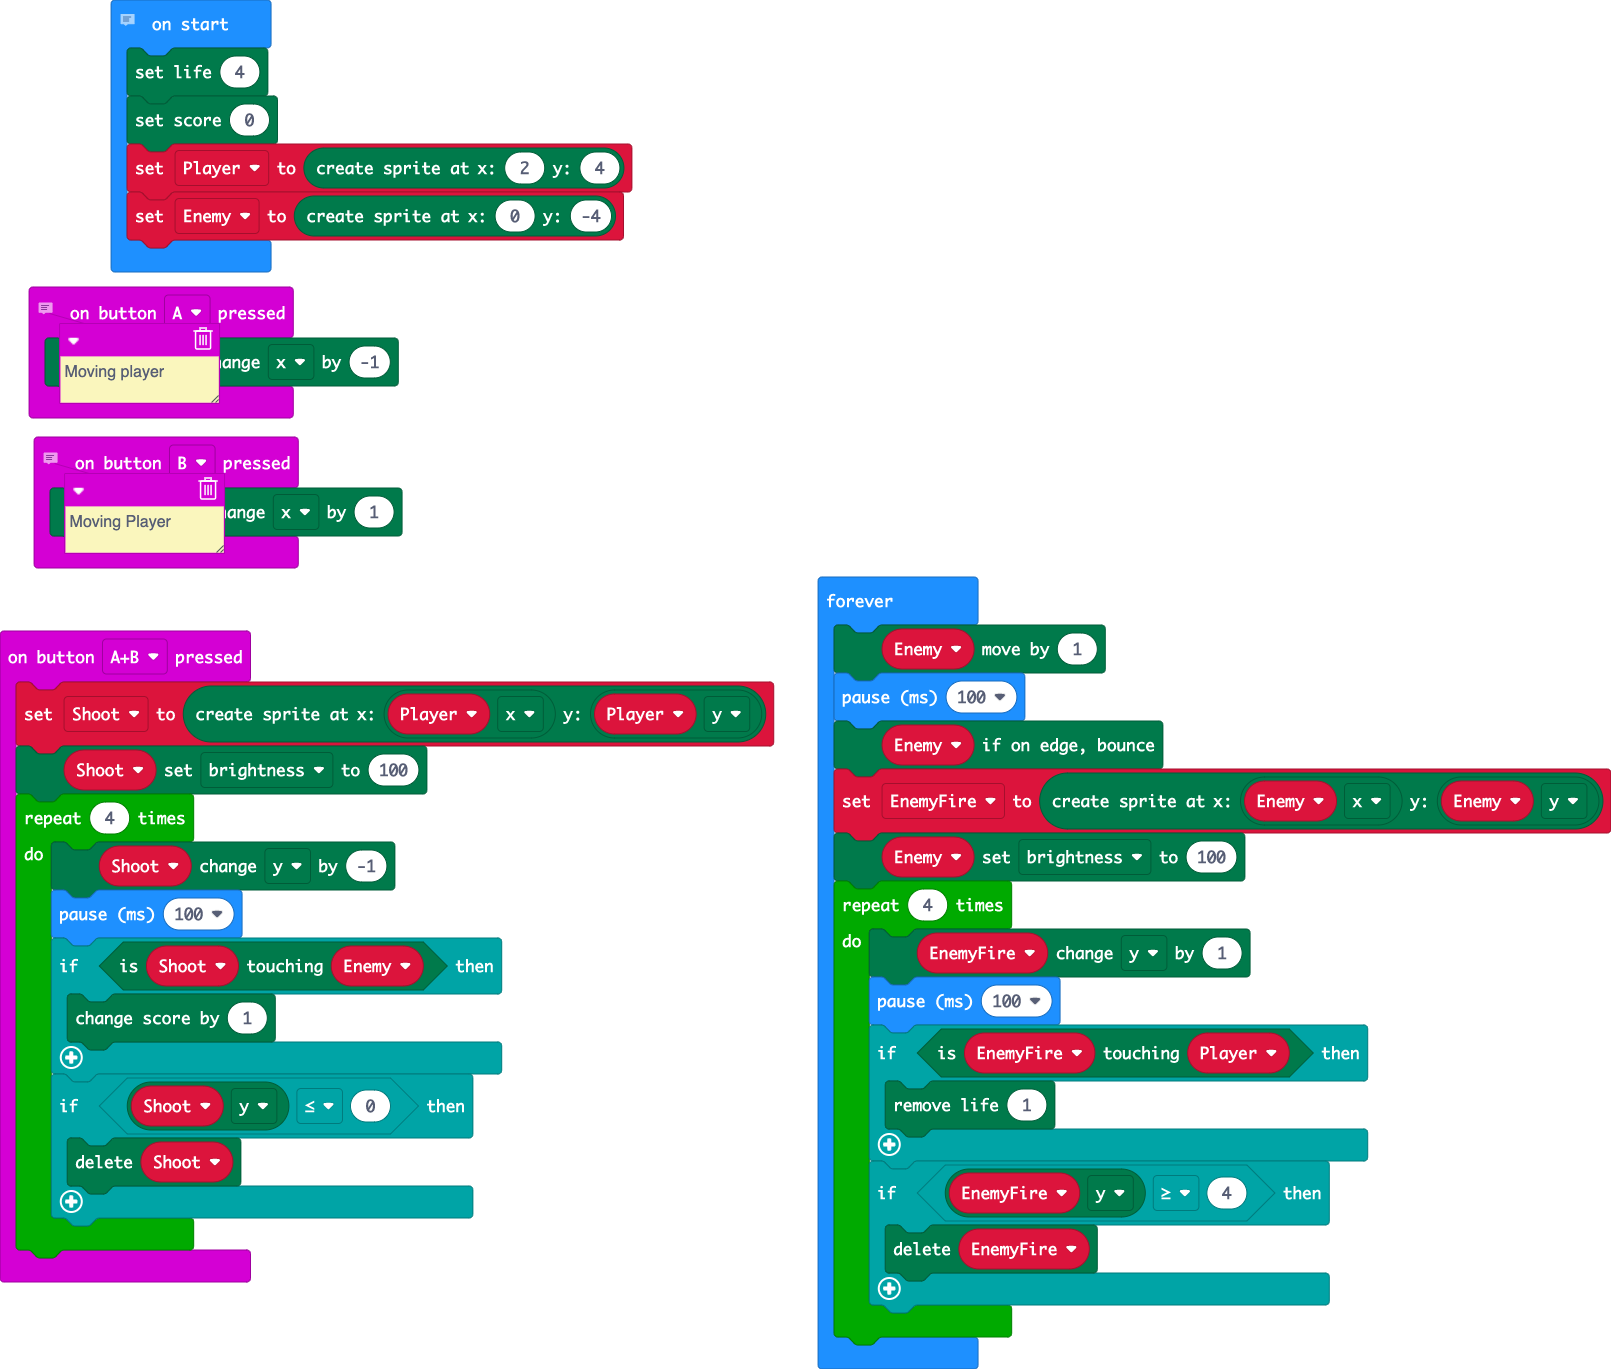
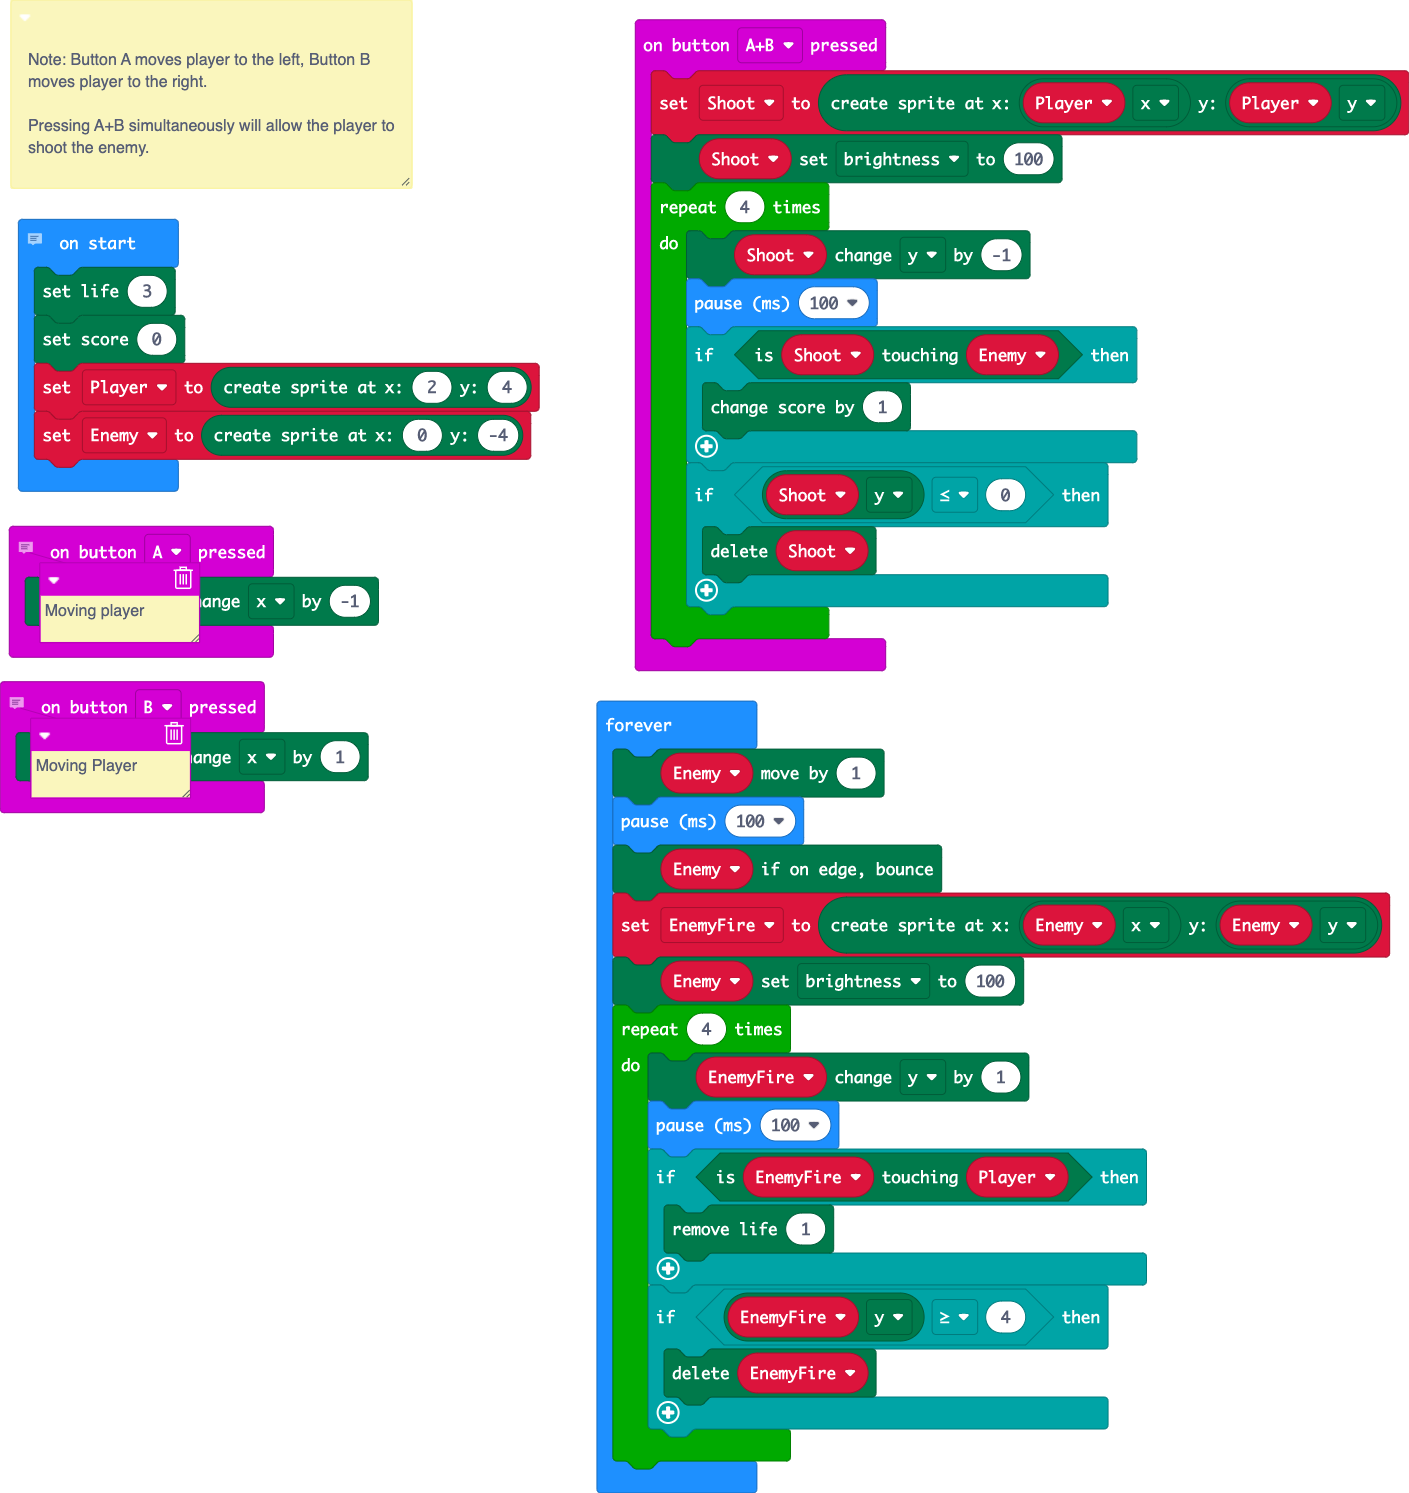
Added comments, tested.

diff --git a/main.ts b/main.ts
@@ -1,3 +1,8 @@
+/**
+ * Note: Button A moves player to the left, Button B moves player to the right.
+ * 
+ * Pressing A+B simultaneously will allow the player to shoot the enemy.
+ */
 // Moving player
 input.onButtonPressed(Button.A, function () {
     Player.change(LedSpriteProperty.X, -1)
@@ -25,7 +30,7 @@ let EnemyFire: game.LedSprite = null
 let Shoot: game.LedSprite = null
 let Enemy: game.LedSprite = null
 let Player: game.LedSprite = null
-game.setLife(4)
+game.setLife(3)
 game.setScore(0)
 Player = game.createSprite(2, 4)
 Enemy = game.createSprite(0, -4)
